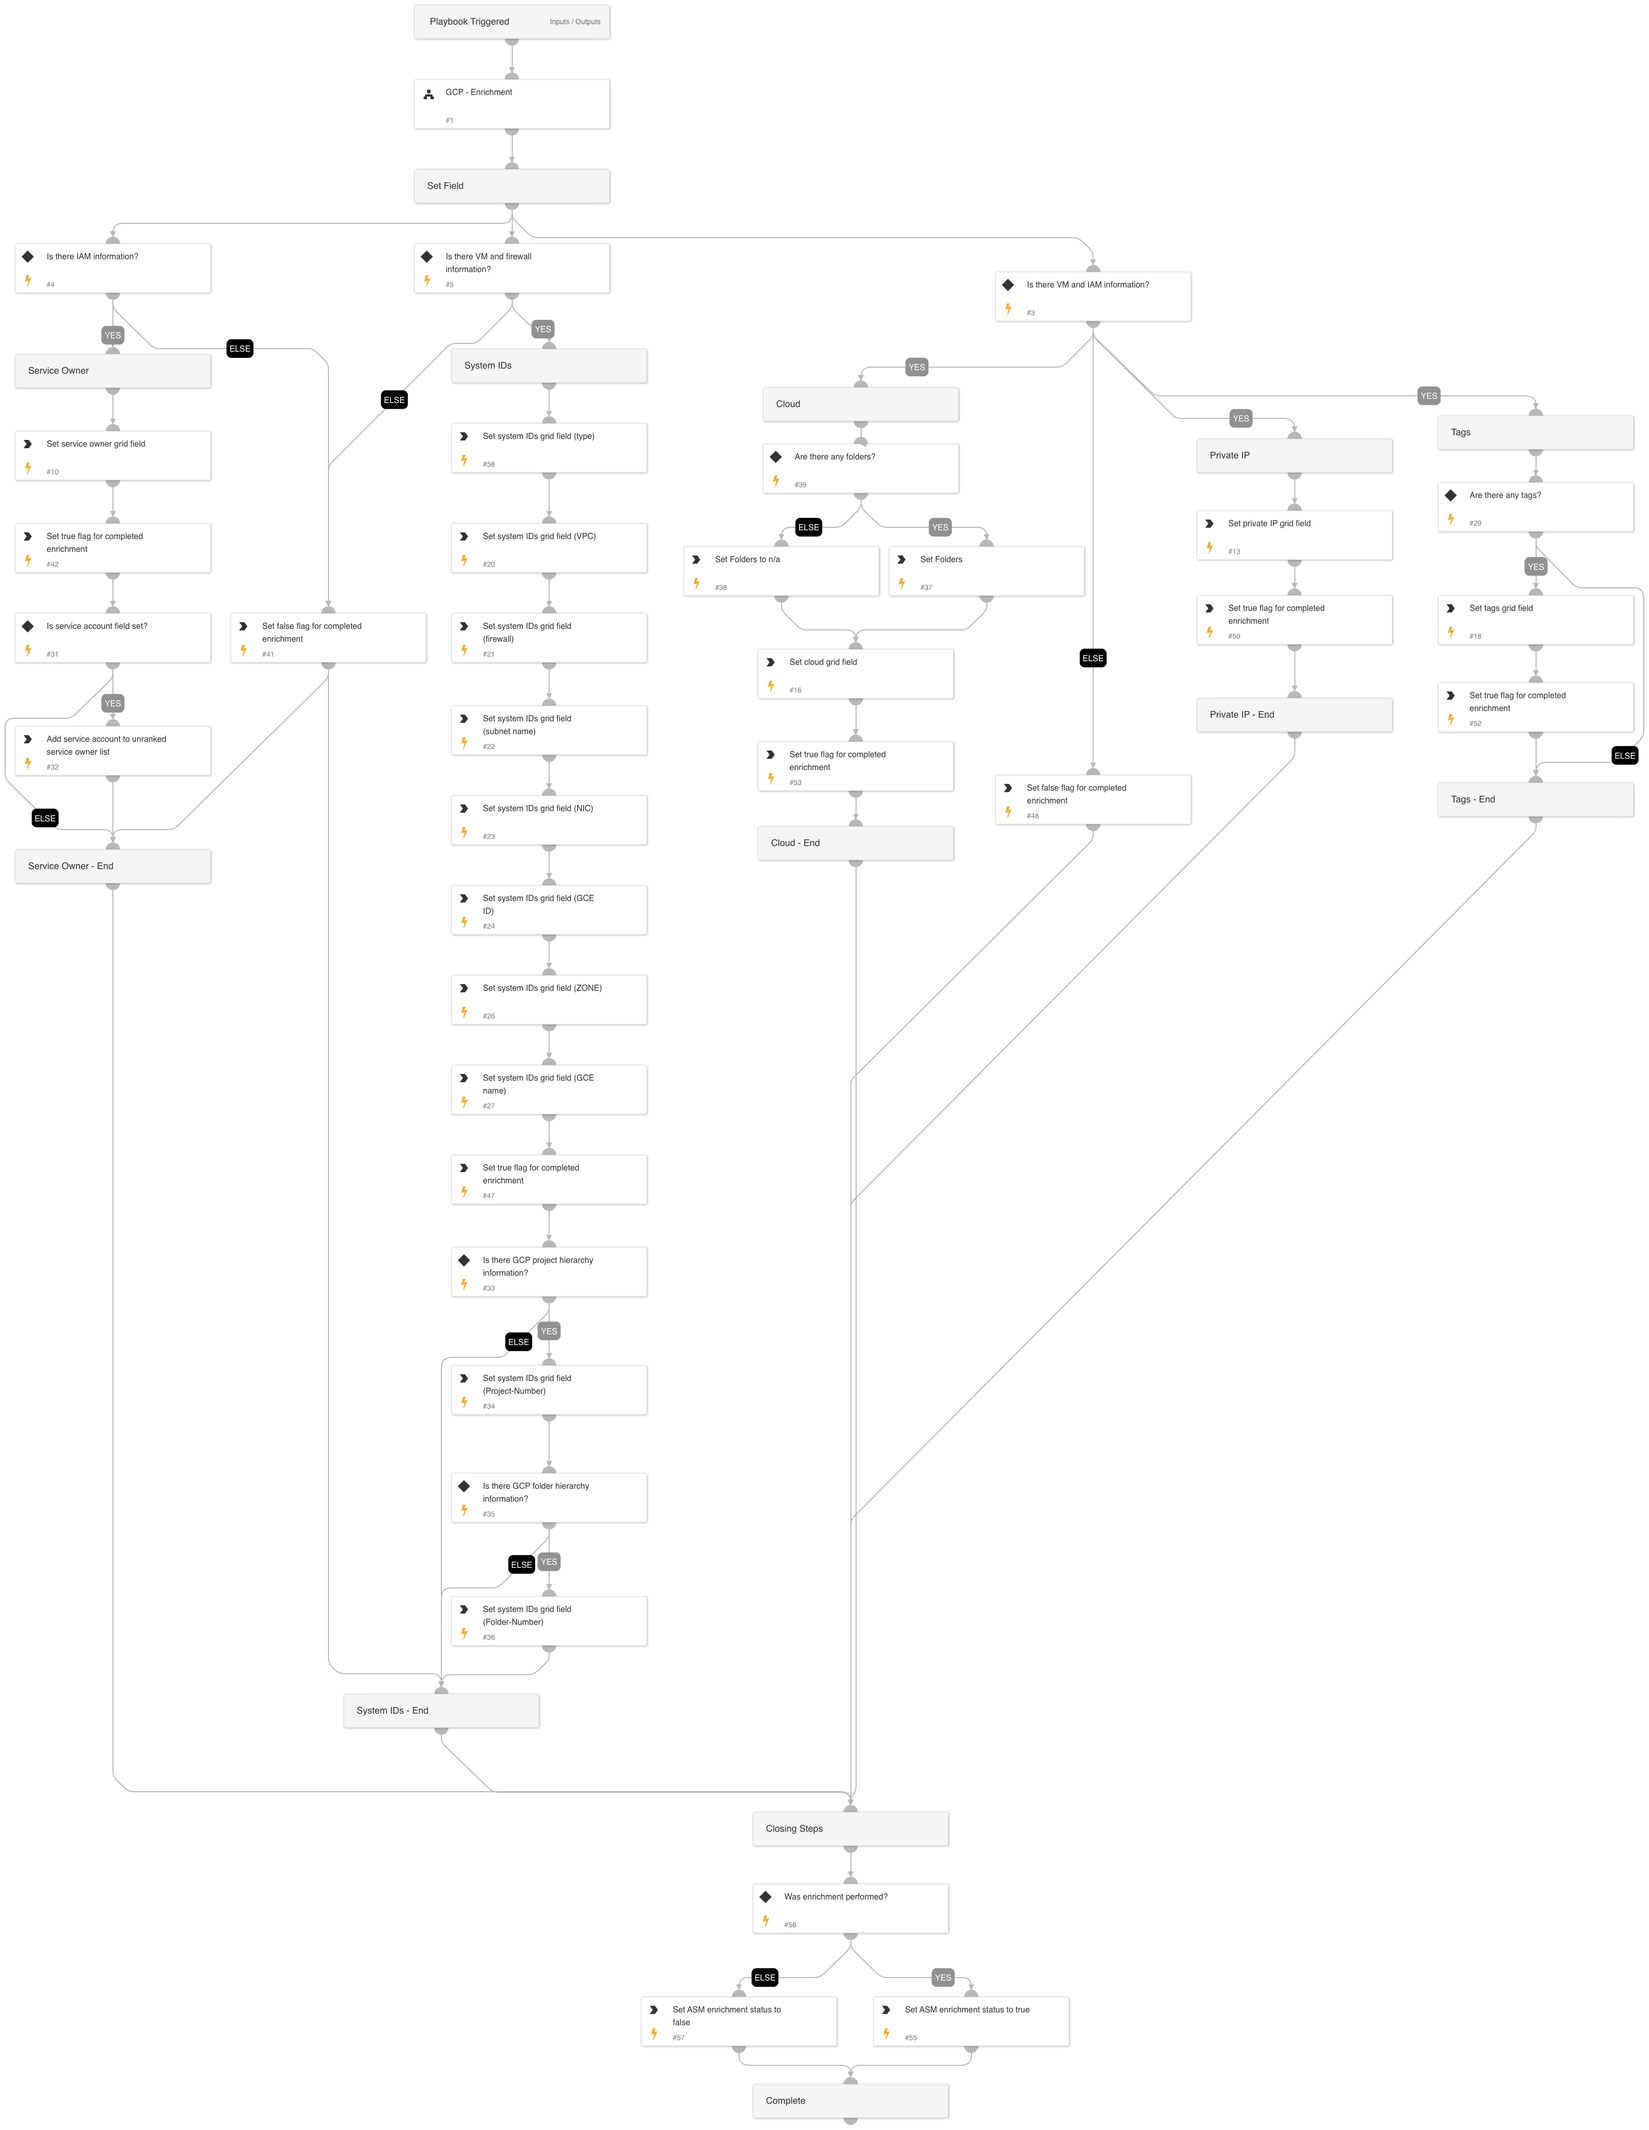
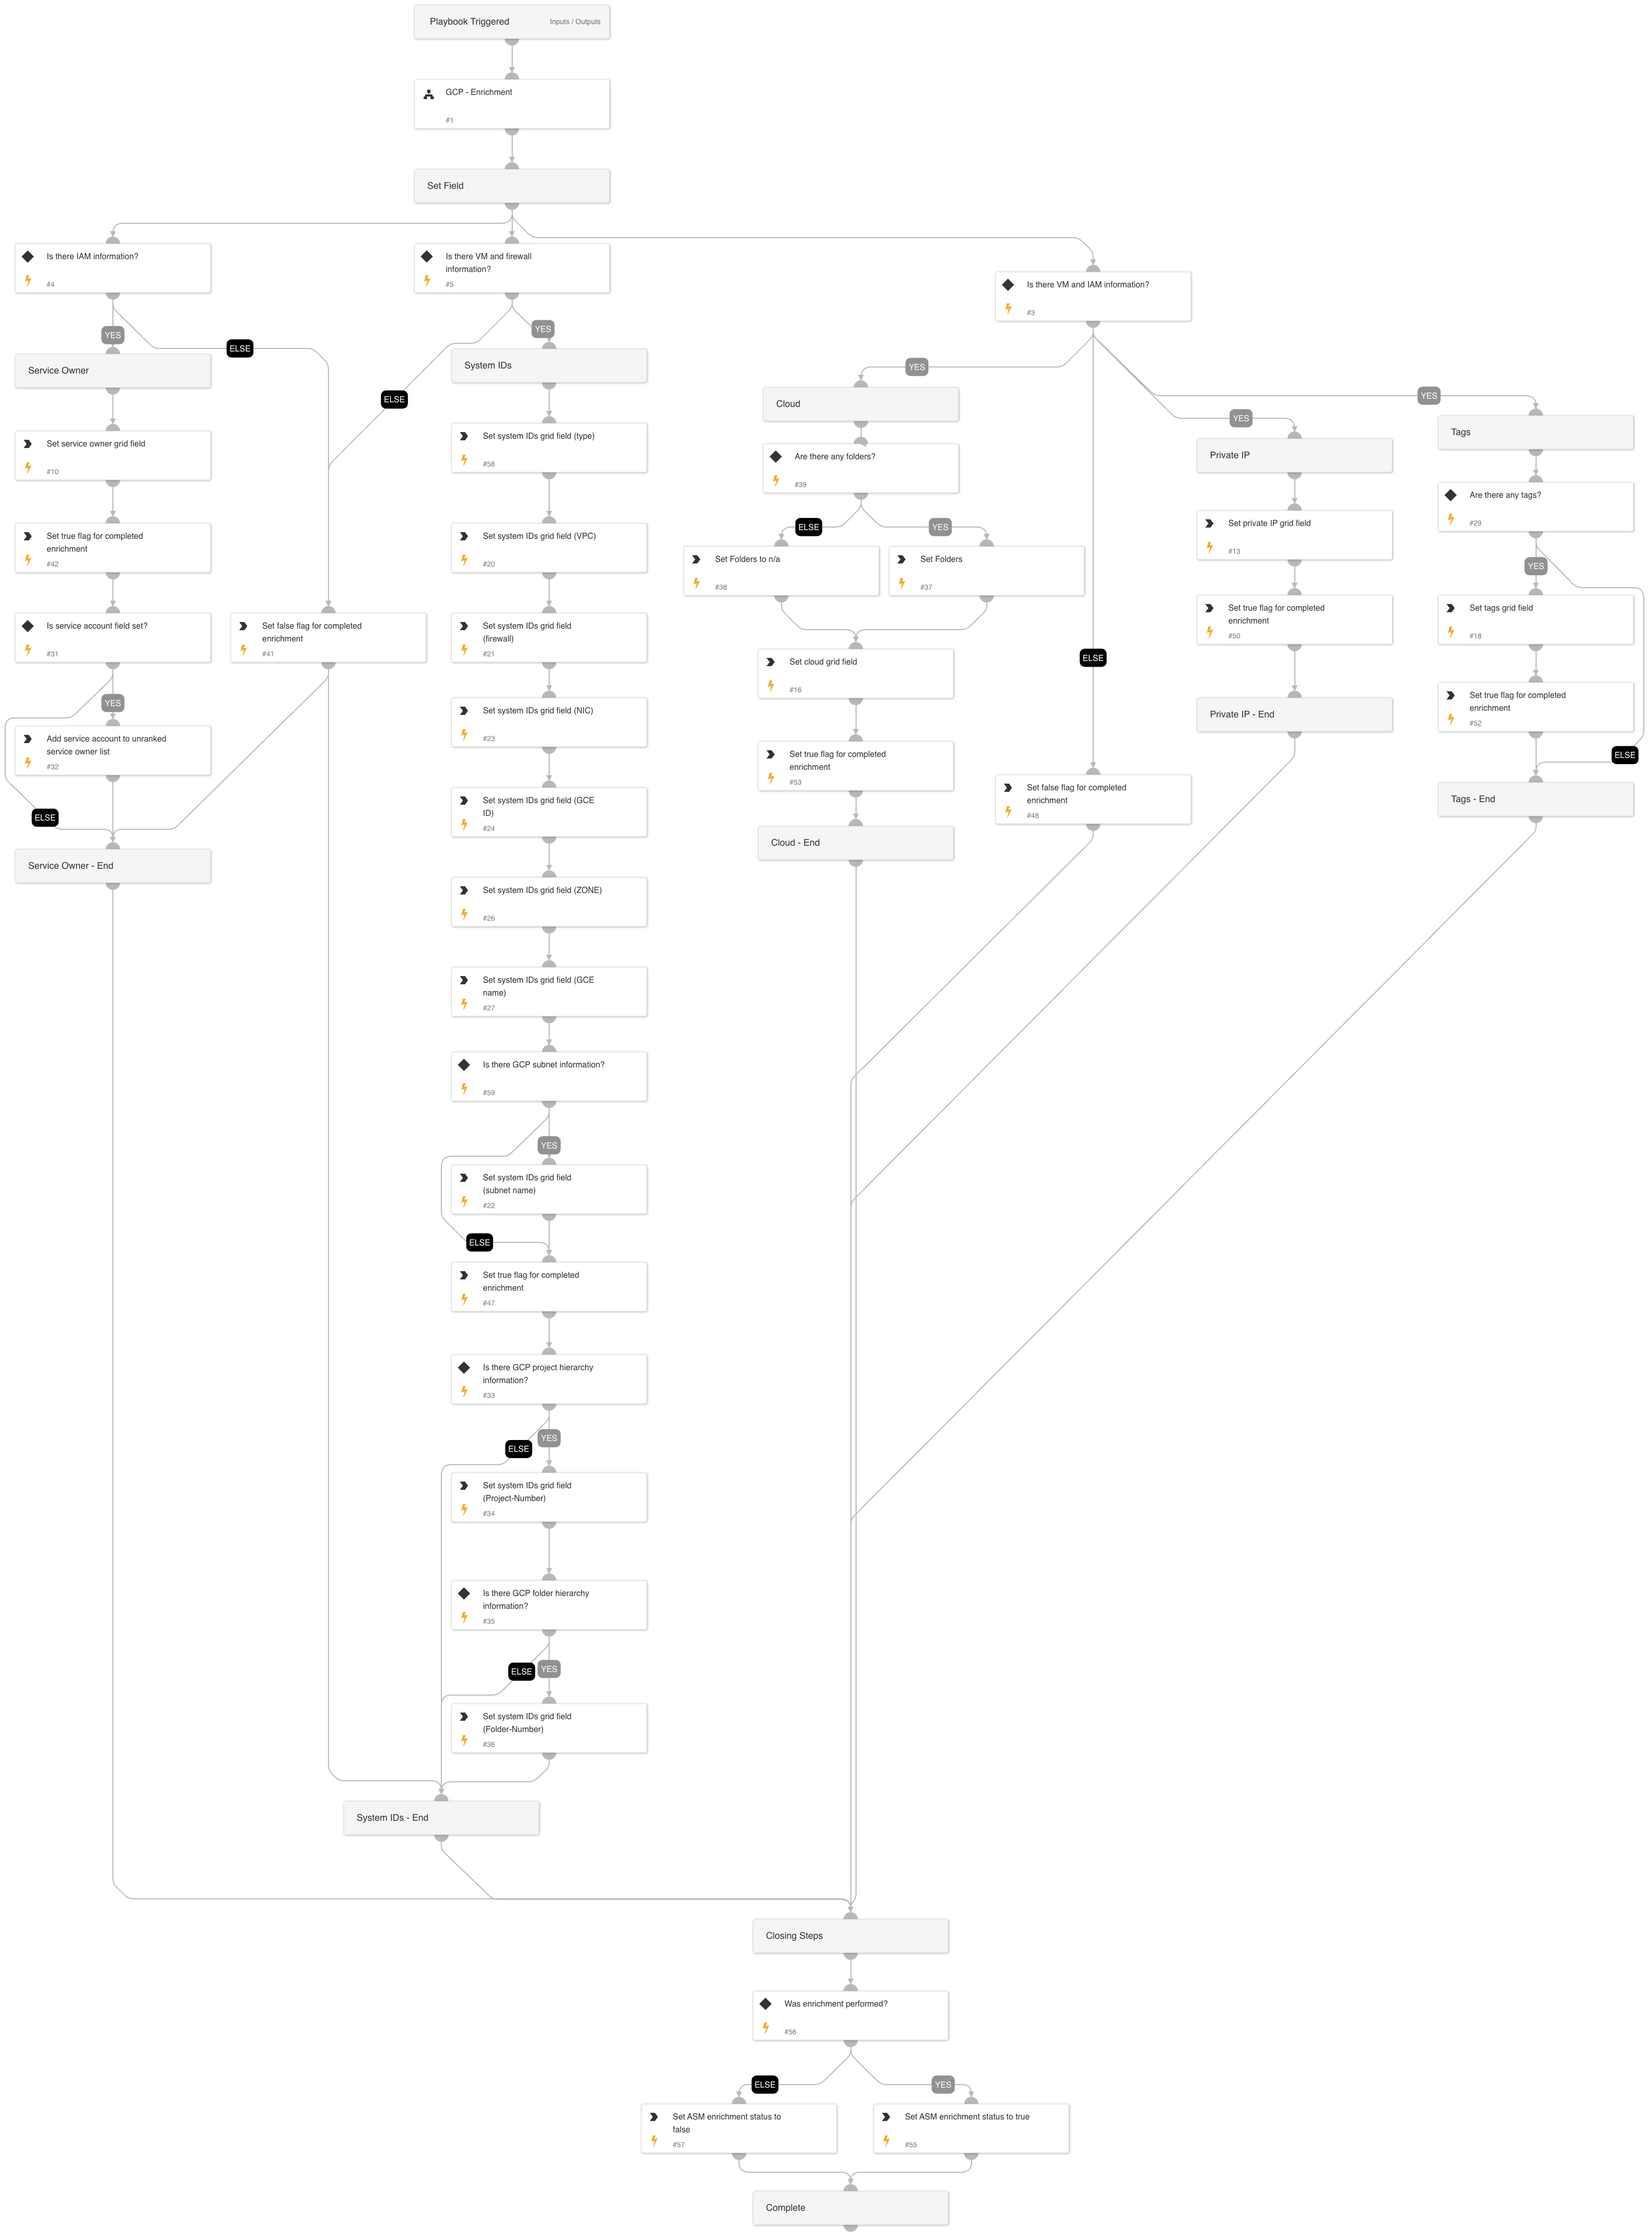
[ASM] - EXPANDR-5879 (#29528) (#29551)
* update play

* RN

diff --git a/Packs/CortexAttackSurfaceManagement/ReleaseNotes/1_6_33.md b/Packs/CortexAttackSurfaceManagement/ReleaseNotes/1_6_33.md
@@ -1,0 +1,5 @@
+#### Playbooks
+
+##### Cortex ASM - GCP Enrichment
+
+- Fixed an issue where task was failing if default GCP network was used.
